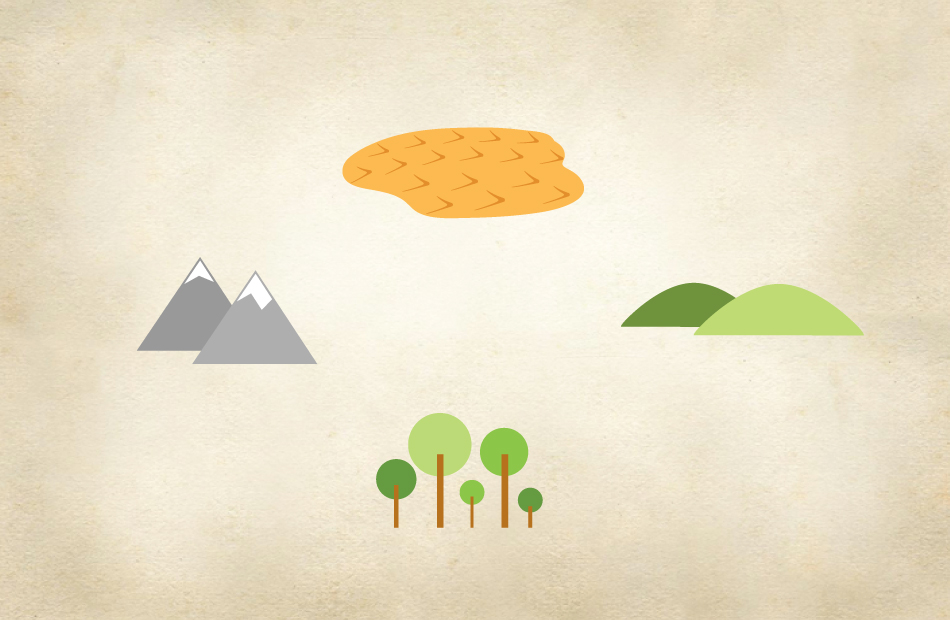
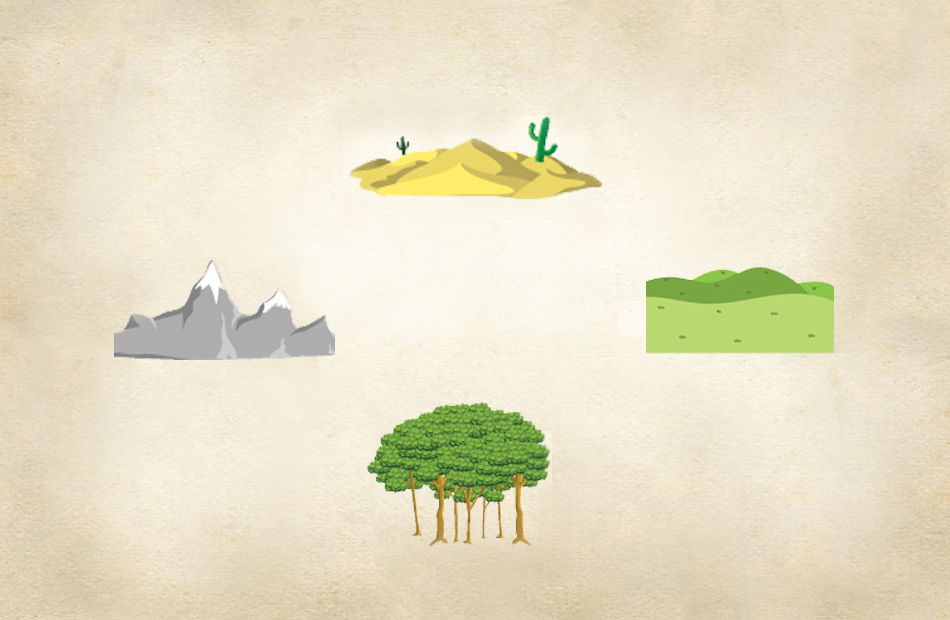
Special edit on maps and mastery levels for 12/15 and 12/18 test. Revert this when testing is complete.

diff --git a/deploy/assets/js/jsondata.js b/deploy/assets/js/jsondata.js
@@ -99,10 +99,10 @@ var g_leveldata =
                     "hill"
                 ],
                 "symbolStyle": {
-                    "desert": "partialAbstract",
-                    "forest": "partialAbstract",
-                    "hill": "partialAbstract",
-                    "mountain": "partialAbstract"
+                    "desert": "nonAbstract",
+                    "forest": "nonAbstract",
+                    "hill": "nonAbstract",
+                    "mountain": "nonAbstract"
                 },
                 "legendLocks": {
                     "desert": "partialAbstract",
@@ -128,10 +128,10 @@ var g_leveldata =
                     "desert"
                 ],
                 "symbolStyle": {
-                    "desert": "partialAbstract",
+                    "desert": "nonAbstract",
                     "forest": "partialAbstract",
-                    "hill": "partialAbstract",
-                    "mountain": "partialAbstract"
+                    "hill": "nonAbstract",
+                    "mountain": "nonAbstract"
                 },
                 "legendLocks": {
                     "desert": "partialAbstract",
@@ -162,7 +162,7 @@ var g_leveldata =
                 ],
                 "symbolStyle": {
                     "forest": "partialAbstract",
-                    "lake": "nonAbstract",
+                    "lake": "partialAbstract",
                     "mountain": "partialAbstract",
                     "ocean": "nonAbstract",
                     "stream": "nonAbstract",
@@ -202,13 +202,13 @@ var g_leveldata =
                 ],
                 "symbolStyle": {
                     "bridge": "nonAbstract",
-                    "building": "nonAbstract",
+                    "building": "partialAbstract",
                     "desert": "partialAbstract",
                     "forest": "partialAbstract",
                     "hill": "partialAbstract",
                     "mountain": "partialAbstract",
-                    "park": "nonAbstract",
-                    "road": "nonAbstract"
+                    "park": "partialAbstract",
+                    "road": "partialAbstract"
                 },
                 "legendLocks": {
                     "bridge": "nonAbstract",
@@ -241,13 +241,13 @@ var g_leveldata =
                 ],
                 "symbolStyle": {
                     "bridge": "nonAbstract",
-                    "building": "nonAbstract",
+                    "building": "partialAbstract",
                     "desert": "partialAbstract",
                     "forest": "partialAbstract",
                     "hill": "partialAbstract",
                     "mountain": "partialAbstract",
-                    "park": "nonAbstract",
-                    "road": "nonAbstract"
+                    "park": "partialAbstract",
+                    "road": "partialAbstract"
                 },
                 "legendLocks": {
                     "bridge": "nonAbstract",
@@ -278,13 +278,13 @@ var g_leveldata =
                 ],
                 "symbolStyle": {
                     "bridge": "nonAbstract",
-                    "building": "nonAbstract",
+                    "building": "partialAbstract",
                     "desert": "partialAbstract",
                     "forest": "partialAbstract",
                     "hill": "partialAbstract",
                     "mountain": "partialAbstract",
-                    "park": "nonAbstract",
-                    "road": "nonAbstract"
+                    "park": "partialAbstract",
+                    "road": "partialAbstract"
                 },
                 "legendLocks": {
                     "bridge": "nonAbstract",
@@ -316,13 +316,13 @@ var g_leveldata =
                     "mountain"
                 ],
                 "symbolStyle": {
-                    "bridge": "partialAbstract",
+                    "bridge": "fullAbstract",
                     "building": "fullAbstract",
                     "desert": "fullAbstract",
                     "forest": "fullAbstract",
                     "hill": "fullAbstract",
                     "mountain": "fullAbstract",
-                    "park": "partialAbstract",
+                    "park": "fullAbstract",
                     "road": "fullAbstract"
                 },
                 "legendLocks": {
@@ -353,13 +353,13 @@ var g_leveldata =
                     "bridge"
                 ],
                 "symbolStyle": {
-                    "bridge": "partialAbstract",
+                    "bridge": "fullAbstract",
                     "building": "fullAbstract",
                     "desert": "fullAbstract",
                     "forest": "fullAbstract",
                     "hill": "fullAbstract",
                     "mountain": "fullAbstract",
-                    "park": "partialAbstract",
+                    "park": "fullAbstract",
                     "road": "fullAbstract"
                 },
                 "legendLocks": {
@@ -390,13 +390,13 @@ var g_leveldata =
                     "desert"
                 ],
                 "symbolStyle": {
-                    "bridge": "partialAbstract",
+                    "bridge": "fullAbstract",
                     "building": "fullAbstract",
                     "desert": "fullAbstract",
                     "forest": "fullAbstract",
                     "hill": "fullAbstract",
                     "mountain": "fullAbstract",
-                    "park": "partialAbstract",
+                    "park": "fullAbstract",
                     "road": "fullAbstract"
                 },
                 "legendLocks": {
@@ -427,13 +427,13 @@ var g_leveldata =
                     "forest"
                 ],
                 "symbolStyle": {
-                    "bridge": "partialAbstract",
+                    "bridge": "fullAbstract",
                     "building": "fullAbstract",
                     "desert": "fullAbstract",
                     "forest": "fullAbstract",
                     "hill": "fullAbstract",
                     "mountain": "fullAbstract",
-                    "park": "partialAbstract",
+                    "park": "fullAbstract",
                     "road": "fullAbstract"
                 },
                 "legendLocks": {

diff --git a/deploy/assets/js/clue.js b/deploy/assets/js/clue.js
@@ -169,14 +169,14 @@ var confirmClue = function() {
 		var isDuplicate = false;
 		if(util.player.getPlayer() == 2) {
 			//player 2
-			g_savestate.clue_track_p2[util.getMasteryIndex()].push(isCorrect);
+			g_savestate.clue_track_p2[util.getMasteryIndexAS()].push(isCorrect);
 			var correctCount = 0;
-			for(var i = 0; i < g_savestate.clue_track_p2[util.getMasteryIndex()].length; i++) {
-				if(g_savestate.clue_track_p2[util.getMasteryIndex()][i]) {
+			for(var i = 0; i < g_savestate.clue_track_p2[util.getMasteryIndexAS()].length; i++) {
+				if(g_savestate.clue_track_p2[util.getMasteryIndexAS()][i]) {
 					correctCount++;
 				}
 			}
-			if(g_savestate.clue_track_p2[util.getMasteryIndex()].length >= 5 || correctCount >= 3) {
+			if(g_savestate.clue_track_p2[util.getMasteryIndexAS()].length >= 5 || correctCount >= 3) {
 				if(correctCount >= 3) {
 					//do correct
 					masteryUp = true;
@@ -203,18 +203,18 @@ var confirmClue = function() {
 				}
 				console.log("clue mastery p2:" + masteryUp);
 				//reset p2 tracking
-				g_savestate.clue_track_p2[util.getMasteryIndex()] = [];
+				g_savestate.clue_track_p2[util.getMasteryIndexAS()] = [];
 			}
 		} else {
 			//player 1
-			g_savestate.clue_track_p1[util.getMasteryIndex()].push(isCorrect);
+			g_savestate.clue_track_p1[util.getMasteryIndexAS()].push(isCorrect);
 			var correctCount = 0;
-			for(var i = 0; i < g_savestate.clue_track_p1[util.getMasteryIndex()].length; i++) {
-				if(g_savestate.clue_track_p1[util.getMasteryIndex()][i]) {
+			for(var i = 0; i < g_savestate.clue_track_p1[util.getMasteryIndexAS()].length; i++) {
+				if(g_savestate.clue_track_p1[util.getMasteryIndexAS()][i]) {
 					correctCount++;
 				}
 			}
-			if(g_savestate.clue_track_p1[util.getMasteryIndex()].length >= 5 || correctCount >= 3) {
+			if(g_savestate.clue_track_p1[util.getMasteryIndexAS()].length >= 5 || correctCount >= 3) {
 				if(correctCount >= 3) {
 					//do correct
 					masteryUp = true;
@@ -241,7 +241,7 @@ var confirmClue = function() {
 				}
 				console.log("clue mastery p1:" + masteryUp);
 				//reset p1 tracking
-				g_savestate.clue_track_p1[util.getMasteryIndex()] = [];
+				g_savestate.clue_track_p1[util.getMasteryIndexAS()] = [];
 			}
 		}
 		saveState();

diff --git a/deploy/assets/js/elephant.js b/deploy/assets/js/elephant.js
@@ -364,20 +364,21 @@ util.loadImages = function(imageArray, callback) {
 
 util.getMasteryTargets = function() {
 	var levelNum = parseInt(g_leveldata[g_LevelTerrain][g_selectedDifficulty][parseInt(g_selectedLevel)].taskid.split("_")[0]);
-	var as = "";
-	var rl = "";
+	var as = "0";
+	var rl = "0";
 	if(levelNum >= 1 && levelNum <= 3) {
-		as = "0";
 		rl = "1";
-	} else if(levelNum >= 4 && levelNum <= 6) {
-		as = "1";
-		rl = "2a";
-	} else if(levelNum >= 7 && levelNum <= 9) {
-		as = "2";
-		rl = "2b";
+	} else if(levelNum >= 4 && levelNum <= 9) {
+		rl = "2";
 	} else if(levelNum == 10) {
-		as = "2";
 		rl = "3";
+	}
+	if(levelNum >= 1 && levelNum <= 3) {
+		as = "1";
+	} else if(levelNum >= 4 && levelNum <= 7) {
+		as = "2";
+	} else if(levelNum >= 8 && levelNum <= 10) {
+		as = "3";
 	}
 	return [as,rl];
 };
@@ -387,12 +388,23 @@ util.getMasteryIndex = function() {
 
 	if(levelNum >= 1 && levelNum <= 3) {
 		return 0;
-	} else if(levelNum >= 4 && levelNum <= 6) {
+	} else if(levelNum >= 4 && levelNum <= 9) {
 		return 1;
-	} else if(levelNum >= 7 && levelNum <= 9) {
-		return 2;
-	} else if(levelNum == 10) {
+	}  else if(levelNum == 10) {
 		return 3;
+	}
+	return 0;
+};
+
+util.getMasteryIndexAS = function() {
+	var levelNum = parseInt(g_leveldata[g_LevelTerrain][g_selectedDifficulty][parseInt(g_selectedLevel)].taskid.split("_")[0]);
+
+	if(levelNum >= 1 && levelNum <= 3) {
+		return 0;
+	} else if(levelNum >= 4 && levelNum <= 7) {
+		return 1;
+	} else if(levelNum >= 8 && levelNum <= 10) {
+		return 2;
 	}
 	return 0;
 };
